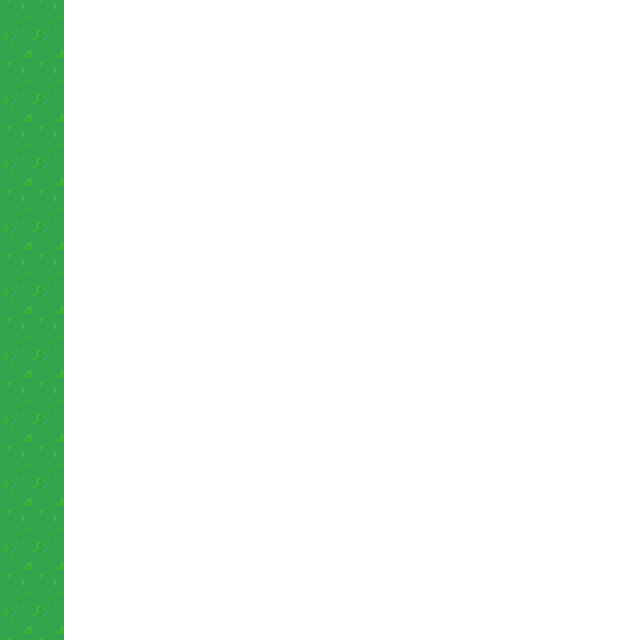
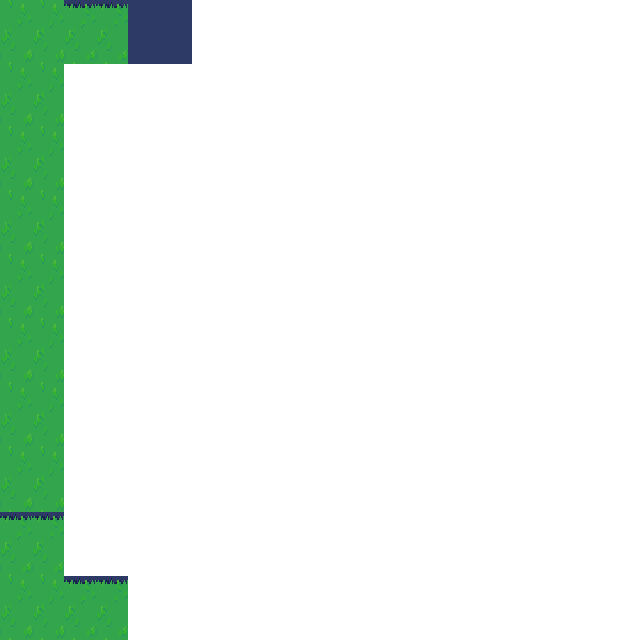
Fix attack render valid grid to not show invalid attacks

Changed region(s): [[0.0938, 0.0, 0.3125, 0.125], [0.0938, 0.875, 0.2188, 1.0], [0.0, 0.7812, 0.0938, 0.8125]]

diff --git a/src/game/combat/attack.cpp b/src/game/combat/attack.cpp
@@ -59,9 +59,7 @@ Attack::Attack(const Attack & other, Unit * source) :
 }
 
 void Attack::attack(ScreenCoord pos, Combat& combat) {
-	if (isValid(pos)) {
-
-
+	if (isValid(pos, combat)) {
 		switch (type) {
 		case AttackType::SELF: {
 			if (affect_self) {
@@ -99,55 +97,46 @@ void Attack::addEffectModifier(Stat stat, float multiplier) {
 }
 
 // Display the valid attack tiles on the grid
-void Attack::renderValidGrid(int tile_width, int tile_height) {
+void Attack::renderValidGrid(int tile_width, int tile_height, const Combat& combat) {
 
 	// Set the tile width/height before rendering
 	validSprite.setSize(tile_width, tile_height);
 
 	switch (type) {
 	case AttackType::SELF: {
-		// TODO: Somehow display the valid sprite
+		renderValidSprite(tile_width, tile_height, source->position.x(), source->position.y(), combat);
 	} break;
 	case AttackType::MELEE: {
-		validSprite.setPos((source->position.x() - 1) * tile_width, source->position.y() * tile_height);
-		validSprite.render();
-		validSprite.setPos(source->position.x() * tile_width, (source->position.y() - 1) * tile_height);
-		validSprite.render();
-		validSprite.setPos((source->position.x() + 1) * tile_width, source->position.y() * tile_height);
-		validSprite.render();
-		validSprite.setPos(source->position.x() * tile_width, (source->position.y() + 1) * tile_height);
-		validSprite.render();
+		renderValidSprite(tile_width, tile_height, source->position.x() - 1, source->position.y(), combat);
+		renderValidSprite(tile_width, tile_height, source->position.x() + 1, source->position.y(), combat);
+		renderValidSprite(tile_width, tile_height, source->position.x(), source->position.y() + 1, combat);
+		renderValidSprite(tile_width, tile_height, source->position.x(), source->position.y() - 1, combat);
 	} break;
 	case AttackType::RANGED: {
 		for (int y = -range; y < range + 1 ; y++) {
 			for (int x = -range; x < range + 1 ; x++) {
 				if (!(y == x && y == 0)) {
 					if (abs(x) + abs(y) <= range) {
-						validSprite.setPos((source->position.x() + x) * tile_width, (source->position.y() + y) * tile_height);
-						validSprite.render();
+						renderValidSprite(tile_width, tile_height, source->position.x() + x, source->position.y() + y, combat);
 					}
 				}
 			}
 		}
 	} break;
 	case AttackType::PIERCE: {
-		validSprite.setPos((source->position.x() - 1) * tile_width, source->position.y() * tile_height);
-		validSprite.render();
-		validSprite.setPos(source->position.x() * tile_width, (source->position.y() - 1) * tile_height);
-		validSprite.render();
-		validSprite.setPos((source->position.x() + 1) * tile_width, source->position.y() * tile_height);
-		validSprite.render();
-		validSprite.setPos(source->position.x() * tile_width, (source->position.y() + 1) * tile_height);
-		validSprite.render();
+		renderValidSprite(tile_width, tile_height, source->position.x() - 1, source->position.y(), combat);
+		renderValidSprite(tile_width, tile_height, source->position.x() + 1, source->position.y(), combat);
+		renderValidSprite(tile_width, tile_height, source->position.x() , source->position.y() + 1, combat);
+		renderValidSprite(tile_width, tile_height, source->position.x() , source->position.y() - 1, combat);
 	} break;
 	}
 
 	//mouse rendering
-	renderValidTarget(tile_width, tile_height);
+	renderValidTarget(tile_width, tile_height, combat);
 	
 }
 
-void Attack::renderValidTarget(int tile_width, int tile_height) {
+void Attack::renderValidTarget(int tile_width, int tile_height, const Combat& combat) {
 
 	// Set the tile width/height before rendering
 	validSprite.setSize(tile_width, tile_height);
@@ -163,9 +152,9 @@ void Attack::renderValidTarget(int tile_width, int tile_height) {
 	// Render the valid target based on whether it IS valid or not
 	switch (type) {
 	case AttackType::MELEE: {
-		if (isValid(ScreenCoord(x, y))) {
+		if (isValid(ScreenCoord(x, y), combat)) {
 			targetValidSprite.setPos(x * tile_width, y * tile_height);
-			targetValidSprite.render();
+			targetValidSprite.render();	
 		}
 		else {
 			targetInvalidSprite.setPos(x * tile_width, y * tile_height);
@@ -173,7 +162,7 @@ void Attack::renderValidTarget(int tile_width, int tile_height) {
 		}
 	} break;
 	case AttackType::RANGED: {
-		if (isValid(ScreenCoord(x, y))) {
+		if (isValid(ScreenCoord(x, y), combat)) {
 			targetValidSprite.setPos(x * tile_width, y * tile_height);
 			targetValidSprite.render();
 		}
@@ -183,7 +172,7 @@ void Attack::renderValidTarget(int tile_width, int tile_height) {
 		}
 	} break;
 	case AttackType::PIERCE: {
-		if (isValid(ScreenCoord(x, y))) {
+		if (isValid(ScreenCoord(x, y), combat)) {
 			targetValidSprite.setPos(x * tile_width, y * tile_height);
 			targetValidSprite.render();
 			validSprite.setPos((x + x - source->position.x()) * tile_width, (y + y - source->position.y()) * tile_height);
@@ -199,7 +188,14 @@ void Attack::renderValidTarget(int tile_width, int tile_height) {
 	}
 }
 
-bool Attack::isValid(ScreenCoord pos) {
+void Attack::renderValidSprite(int tile_width, int tile_height, int x, int y, const Combat & combat) {
+	if (combat.grid.isPosValid(Vec2<int>(x, y))) {
+		validSprite.setPos(x * tile_width, y * tile_height);
+		validSprite.render();
+	}
+}
+
+bool Attack::isValid(ScreenCoord pos, const Combat& combat) {
 	switch (type) {
 	case AttackType::SELF: {
 		return pos == source->position;
@@ -207,19 +203,19 @@ bool Attack::isValid(ScreenCoord pos) {
 	case AttackType::MELEE: {
 		int x_diff = std::abs(pos.x() - source->position.x());
 		int y_diff = std::abs(pos.y() - source->position.y());
-		if (x_diff + y_diff == 1) return true;
+		if (x_diff + y_diff == 1) return combat.grid.isPosValid(source->position + Vec2<int>(x_diff, y_diff));
 		return false;
 	} break;
 	case AttackType::RANGED: {
 		int x_diff = std::abs(pos.x() - source->position.x());
 		int y_diff = std::abs(pos.y() - source->position.y());
-		if (x_diff + y_diff <= range) return true;
+		if (x_diff + y_diff <= range) return combat.grid.isPosValid(source->position + Vec2<int>(x_diff, y_diff));
 		return false;
 	} break;
 	case AttackType::PIERCE: {
 		int x_diff = std::abs(pos.x() - source->position.x());
 		int y_diff = std::abs(pos.y() - source->position.y());
-		if (x_diff + y_diff == 1) return true;
+		if (x_diff + y_diff == 1) return combat.grid.isPosValid(source->position + Vec2<int>(x_diff, y_diff));
 		return false;
 	} break;
 	}

diff --git a/src/game/combat/unit.cpp b/src/game/combat/unit.cpp
@@ -14,7 +14,7 @@ Unit::Unit() :
 	top_margin(0),
 	shadow("res/assets/shadow.png")
 {
-  generateDefaultUnitData();
+	generateDefaultUnitData();
 	loadPropertiesFromUnitData();
 }
 
@@ -26,7 +26,7 @@ Unit::Unit(UnitType type) :
 	top_margin(0),
 	shadow("res/assets/shadow.png")
 {
-  generateDefaultUnitData();
+	generateDefaultUnitData();
 	loadPropertiesFromUnitData();
 }
 
@@ -38,7 +38,7 @@ Unit::Unit(UnitType type, Attack attack1, Attack attack2) :
 	top_margin(0),
 	shadow("res/assets/shadow.png")
 {
-  generateDefaultUnitData();
+	generateDefaultUnitData();
 	loadPropertiesFromUnitData();
 }
 
@@ -182,7 +182,7 @@ void Unit::calculateScreenPositionMovement() {
 	screenPosition.x() += moveNext.x() * tile_width / 20;
 	screenPosition.y() += moveNext.y() * tile_height / 20;
 
-	//make the shadow move during movement
+	// Make the shadow move during movement
 	shadow.setPos(screenPosition.x() - (tile_width - sprite_width) / 2, screenPosition.y() - tile_height / 2 + sprite_height);
 }
 
@@ -285,12 +285,12 @@ bool Unit::move(Combat & combat, Vec2<int> pos) {
 	return false;
 }
 
-void Unit::renderBottom() {
+void Unit::renderBottom(Combat * combat) {
 	// For now, just render the shadow of the unit on the bottom
 	shadow.render();
 }
 
-void Unit::renderTop() {
+void Unit::renderTop(Combat * combat) {
 	// Let the unit subclasses handle this one
 }
 

diff --git a/src/game/combat/player.cpp b/src/game/combat/player.cpp
@@ -56,17 +56,17 @@ Player::Player(int x, int y, const nlohmann::json& data) :
 
 Player::~Player() {}
 
-void Player::renderBottom() {
+void Player::renderBottom(Combat * combat) {
 	shadow.render();
 	// Render the corresponding UI elements depending on the players current action
 	if (current_action == PlayerAction::MOVE && state == UnitState::IDLE) {
 		renderValidMoves();
 	}
 	if (current_action == PlayerAction::ATTACK_1) {
-		attack1.renderValidGrid(tile_width, tile_height);
+		attack1.renderValidGrid(tile_width, tile_height, *combat);
 	}
 	if (current_action == PlayerAction::ATTACK_2) {
-		attack2.renderValidGrid(tile_width, tile_height);
+		attack2.renderValidGrid(tile_width, tile_height, *combat);
 	}
 }
 
@@ -77,7 +77,7 @@ void Player::render()
 	player_sprite.render();
 }
 
-void Player::renderTop() {
+void Player::renderTop(Combat * combat) {
 	// If it's the players turn, render player related UI
 	if (state == UnitState::IDLE && selected) {
 		renderTurnUI();

diff --git a/src/game/combat.cpp b/src/game/combat.cpp
@@ -126,7 +126,7 @@ void Combat::render() {
 	grid.render();
 	{	// --------- UNIT RENDERING CODE ---------
 		// Render the bottom of the units first
-		for (Unit * unit : units) unit->renderBottom();
+		for (Unit * unit : units) unit->renderBottom(this);
 		// Render sprites in the order they appear in the grid
 		for (int i = 0; i < grid.map_height; ++i) {
 			for (Unit * unit : units) {
@@ -136,7 +136,7 @@ void Combat::render() {
 			}
 		}
 		// Render the top of the units now
-		for (Unit * unit : units) unit->renderTop();
+		for (Unit * unit : units) unit->renderTop(this);
 	}
 	// Render the game over screen if the game is over
 	if (game_over) {

diff --git a/src/game/combat/attack.hpp b/src/game/combat/attack.hpp
@@ -52,9 +52,10 @@ public:
 	void addEffectModifier(Stat stat, float multiplier);
 
 	// Utility methods
-	void renderValidGrid(int tile_width, int tile_height);
-	void renderValidTarget(int tile_width, int tile_height);
-	bool isValid(ScreenCoord pos);
+	void renderValidGrid(int tile_width, int tile_height, const Combat& combat);
+	void renderValidTarget(int tile_width, int tile_height, const Combat& combat);
+	void renderValidSprite(int tile_width, int tile_height, int x, int y, const Combat& combat);
+	bool isValid(ScreenCoord pos, const Combat& combat);
 	const Unit * getSource() const { return source; }
 
 	// Getter functions for attack properties

diff --git a/src/game/combat/unit.hpp b/src/game/combat/unit.hpp
@@ -8,8 +8,10 @@
 #include "status.hpp"
 #include "../unitData.hpp"
 
-#define DEFAULT_SPRITE_WIDTH 200
-#define DEFAULT_SPRITE_HEIGHT 200
+#define DEFAULT_SPRITE_WIDTH 300
+#define DEFAULT_SPRITE_HEIGHT 300
+
+class Combat;
 
 // Enumeration of unit types
 enum class UnitType {
@@ -40,9 +42,9 @@ public:
 	ScreenCoord screenPosition;
 
 	// Render methods
-	virtual void renderBottom();
+	virtual void renderBottom(Combat * combat);
 	// virtual void renderUnit();	<-- USE THE ORIGINAL ENTITY RENDER FUNCTION FOR THIS
-	virtual void renderTop();
+	virtual void renderTop(Combat * combat);
 	virtual void renderHealth();
 
 	// Getter methods

diff --git a/src/game/combat/player.hpp b/src/game/combat/player.hpp
@@ -49,9 +49,9 @@ public:
 	void update(int delta);
 
 	// The render function and its' corresponding helper functions
-	virtual void renderBottom() override;
+	virtual void renderBottom(Combat * combat) override;
 	virtual void render() override;
-	virtual void renderTop() override;
+	virtual void renderTop(Combat * combat) override;
 	void renderTurnUI();
 	void renderValidMoves();
 	
